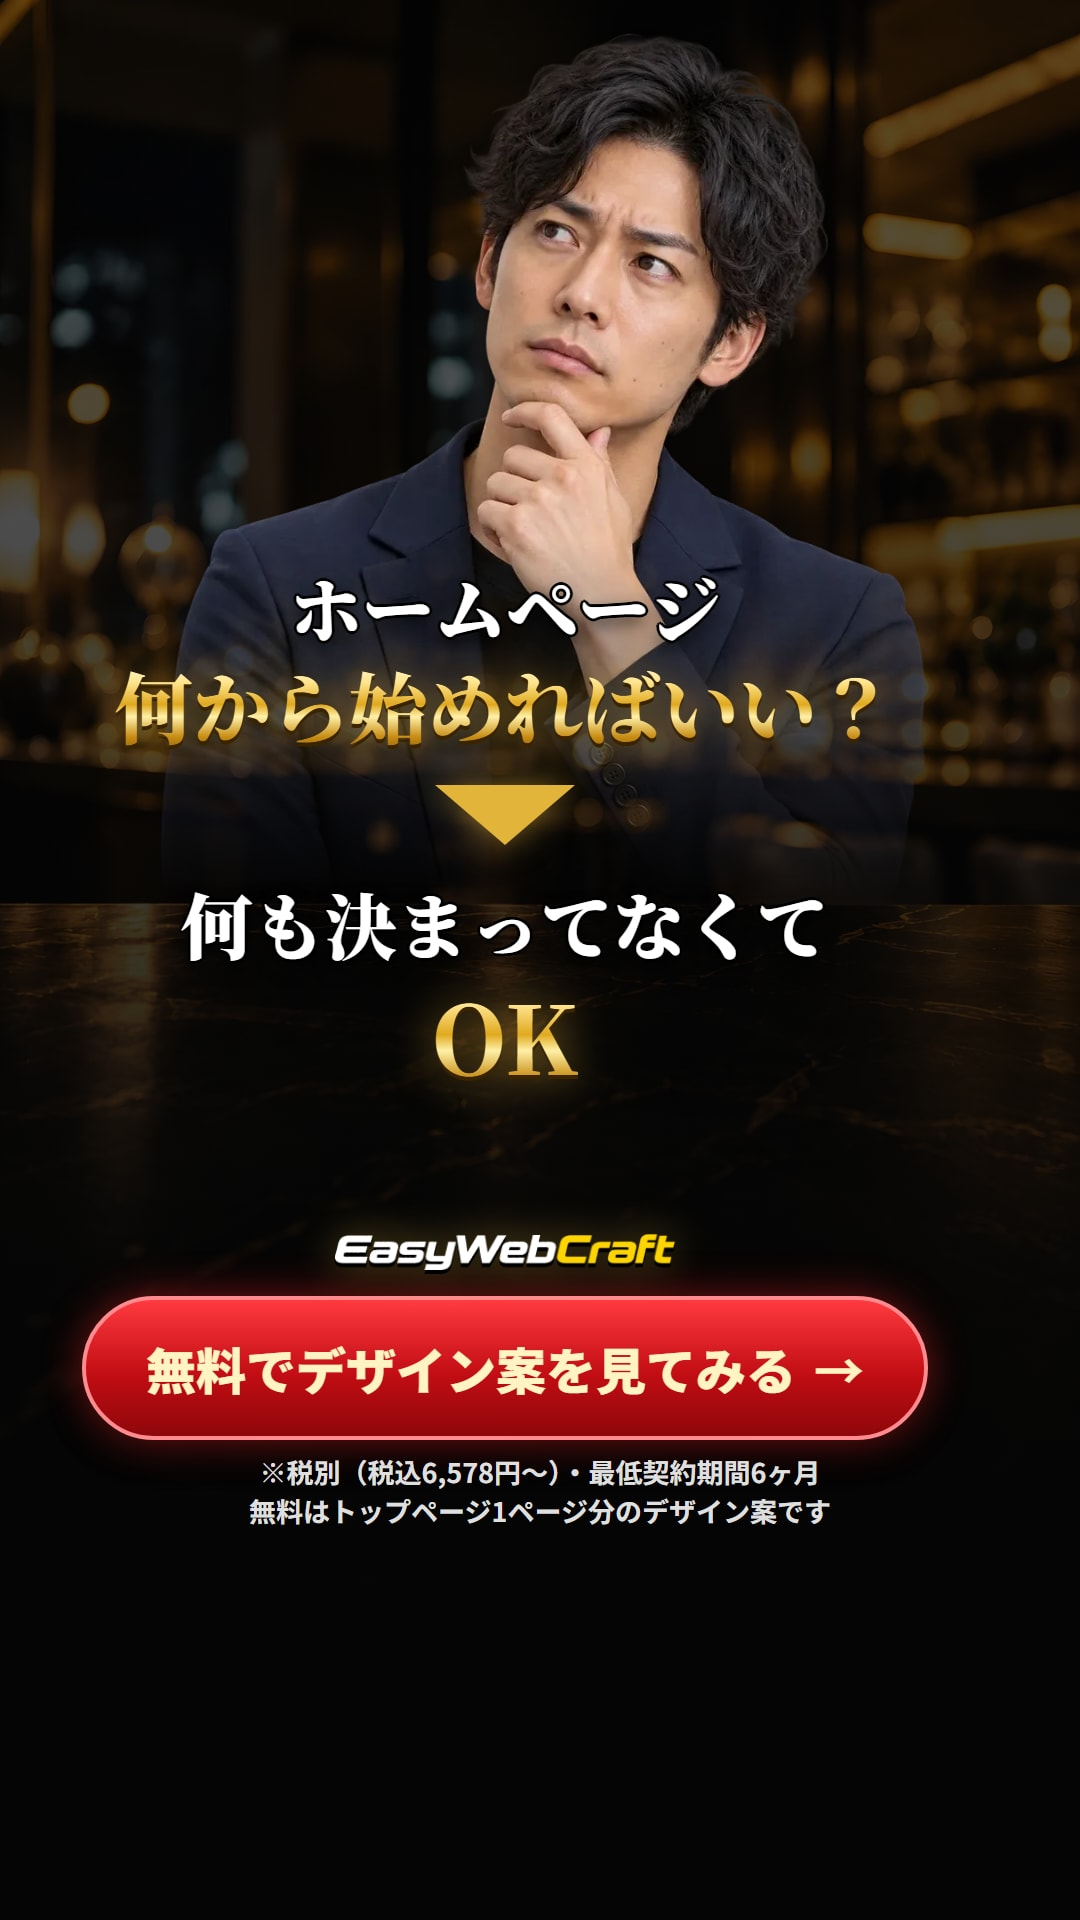
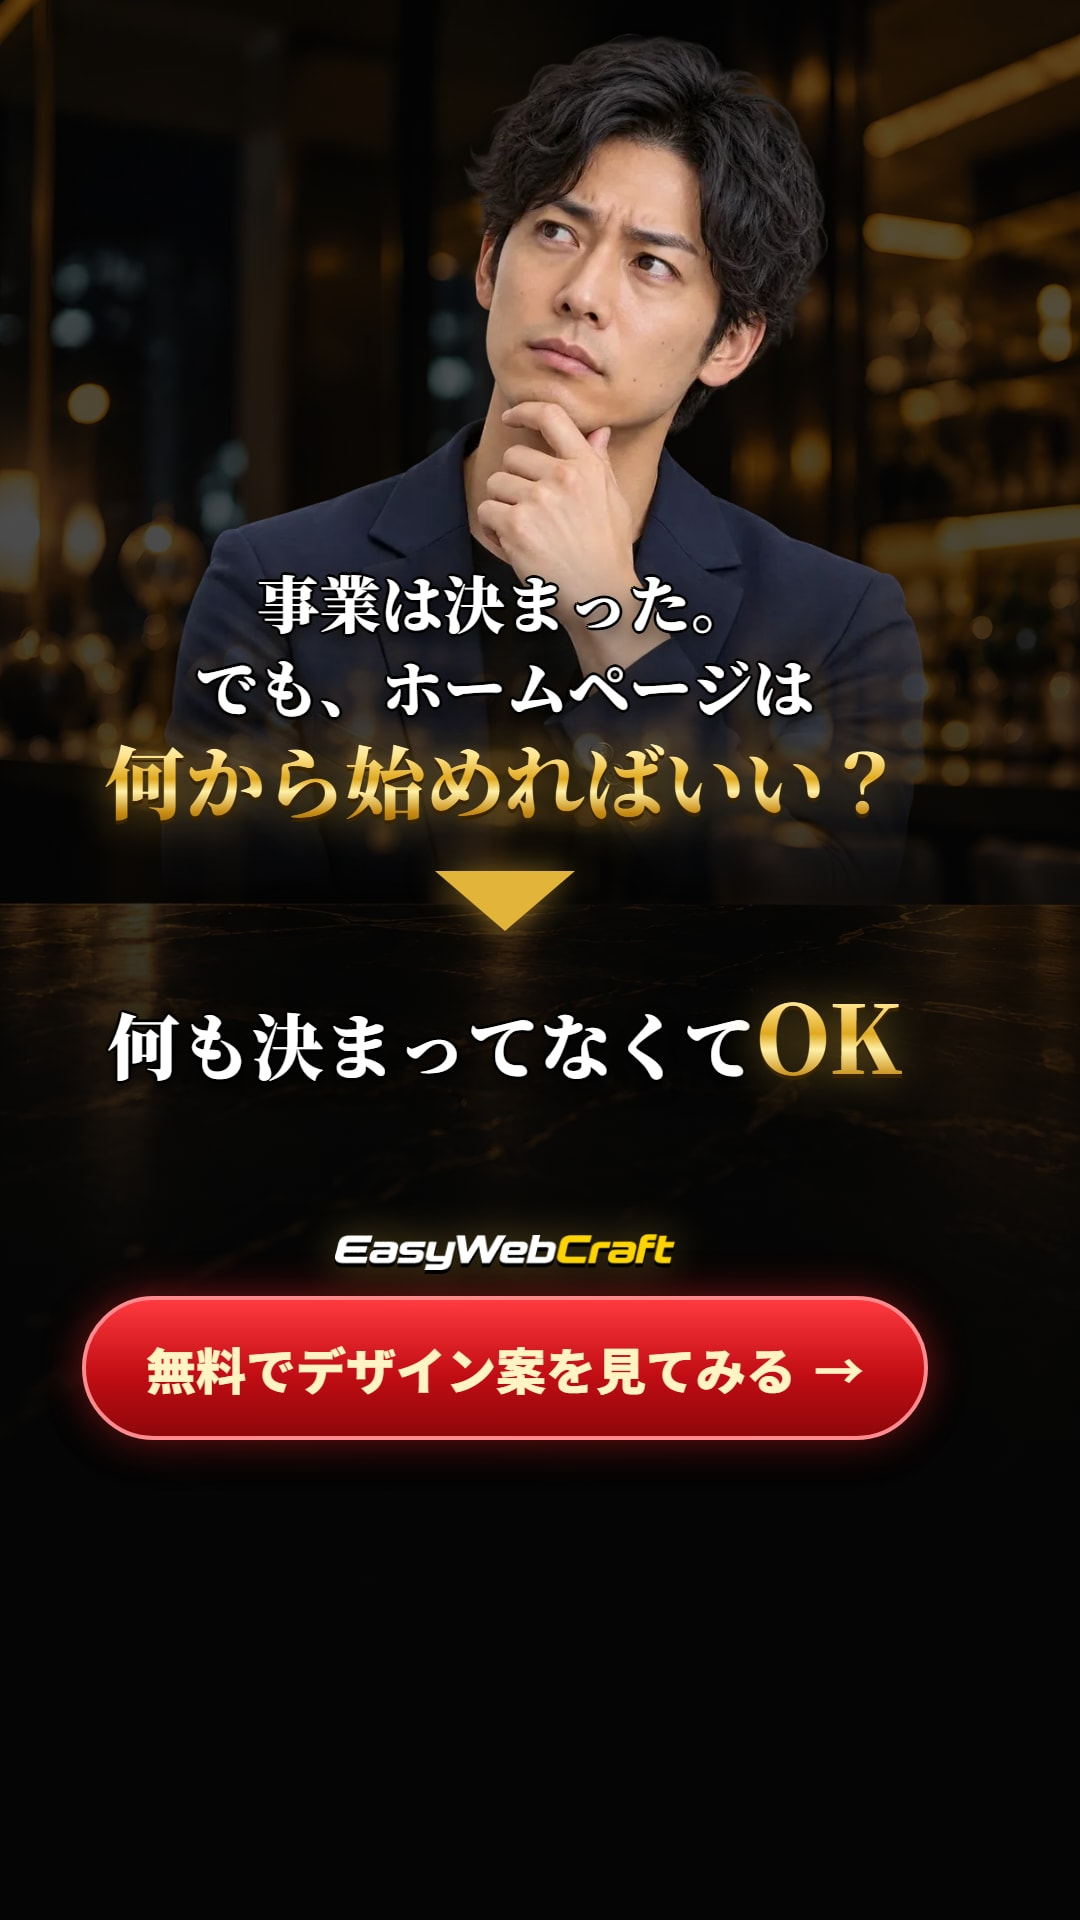
C2・C4・C5の文言を調整し、注記を必要な案だけに絞る
Claude-Session: https://claude.ai/code/session_01G65TiHfa1BUco43NvNDLJF

Changed region(s): [[0.0917, 0.2812, 0.8556, 0.5938], [0.2139, 0.75, 0.5194, 0.8125], [0.5194, 0.75, 0.7639, 0.8125]]

diff --git a/challenge/ads.html b/challenge/ads.html
@@ -130,6 +130,7 @@ body{width:1080px; font-family:"Noto Sans JP",sans-serif; color:#fff; background
 #c4 .blogo{margin-top:30px}
 .ad.busy::after{background:linear-gradient(180deg,rgba(5,5,5,0) 0%,rgba(5,5,5,0) 32%,rgba(5,5,5,.8) 46%,rgba(5,5,5,.95) 62%,#050505 100%) !important}
 #c5 .in{top:760px}
+#c4 .blogo{margin-top:0}
 </style>
 </head>
 <body>
@@ -146,25 +147,26 @@ body{width:1080px; font-family:"Noto Sans JP",sans-serif; color:#fff; background
     <img class="logo blogo" src="img/logo-fv.webp" alt="EasyWebCraft">
     <p class="cta">無料でデザイン案を見てみる</p>
   </div>
-  <p class="fine">※税別（税込6,578円〜）・最低契約期間6ヶ月</p>
+  <p class="fine">※税別・最低契約期間6ヶ月</p>
 </section>
 
 <!-- C2 安すぎて不安 → 契約前にデザイン案0円 -->
 <section class="ad" id="c2">
   <div class="in">
-    <div class="g40"></div>
-    <p class="q" style="font-size:76px">こんなに安くて<br><b>ちゃんとしたHP</b><br>できるの？</p>
-    <div class="g40"></div>
+    <div class="g60"></div>
+    <p class="serif outline" style="font-size:84px; line-height:1.35">安いHPって、<br><span class="red">ちょっと不安。</span></p>
+    <div class="g60"></div>
     <div class="arrow"></div>
     <div class="g40"></div>
-    <p class="serif gold" style="font-size:80px; line-height:1.3">契約前に<br>実物を見せます</p>
-    <div class="g40"></div>
-    <div class="offer"><p class="h">HPデザイン案</p><p class="p"><b class="gold">0</b>円</p></div>
+    <p class="serif outline" style="font-size:60px">だから、</p>
+    <p class="serif gold" style="font-size:84px; line-height:1.3">契約前に<br>デザインを作ります</p>
+    <div class="g30"></div>
+    <p class="serif outline" style="font-size:70px"><span class="n gold" style="font-family:var(--num); font-size:220px; line-height:1">0</span>円</p>
     <div class="sp"></div>
     <img class="logo blogo" src="img/logo-fv.webp" alt="EasyWebCraft">
     <p class="cta">無料でデザイン案を見てみる</p>
   </div>
-  <p class="fine">※無料はトップページ1ページ分のデザイン案です<br>税別（税込6,578円〜）・最低契約期間6ヶ月</p>
+  <p class="fine">※トップページ1ページ分のデザイン案です</p>
 </section>
 
 <!-- C3 検索されても出てこない → 他社へ -->
@@ -183,40 +185,40 @@ body{width:1080px; font-family:"Noto Sans JP",sans-serif; color:#fff; background
     <img class="logo blogo" src="img/logo-fv.webp" alt="EasyWebCraft">
     <p class="cta">無料でデザイン案を見てみる</p>
   </div>
-  <p class="fine">※無料はトップページ1ページ分のデザイン案です<br>税別（税込6,578円〜）・最低契約期間6ヶ月</p>
+  <p class="fine">※トップページ1ページ分のデザイン案です</p>
 </section>
 
 <!-- C4 事業は決まった、HPは何から？ -->
 <section class="ad face" id="c4">
   <div class="photo think r"></div>
   <div class="in">
-    <p class="serif outline" style="font-size:72px; line-height:1.3">ホームページ</p>
-    <p class="serif gold" style="font-size:78px; line-height:1.3; white-space:nowrap">何から始めればいい？</p>
-    <div class="g30"></div>
+    <p class="serif outline" style="font-size:62px; line-height:1.35">事業は決まった。<br>でも、ホームページは</p>
+    <p class="serif gold" style="font-size:80px; line-height:1.3; white-space:nowrap">何から始めればいい？</p>
+    <div class="g40"></div>
     <div class="arrow"></div>
-    <div class="g30"></div>
-    <p class="serif outline" style="font-size:72px; line-height:1.35">何も決まってなくて<br><span class="gold" style="font-size:1.3em">OK</span></p>
+    <div class="g40"></div>
+    <p class="serif outline" style="font-size:72px; line-height:1.35">何も決まってなくて<span class="gold" style="font-size:1.3em">OK</span></p>
     <div class="sp"></div>
     <img class="logo blogo" src="img/logo-fv.webp" alt="EasyWebCraft">
     <p class="cta">無料でデザイン案を見てみる</p>
   </div>
-  <p class="fine">※税別（税込6,578円〜）・最低契約期間6ヶ月<br>無料はトップページ1ページ分のデザイン案です</p>
 </section>
 
 <!-- C5 本業が忙しくて手が回らない -->
 <section class="ad busy" id="c5">
   <div class="in">
     <div class="sp"></div>
-    <p class="serif outline" style="font-size:72px; line-height:1.35">忙しくて<br><span class="red" style="font-size:1.2em">HPまで手が回らない</span></p>
+    <p class="serif outline" style="font-size:64px">起業したばかり。</p>
+    <div class="g10"></div>
+    <p class="serif outline" style="font-size:64px; line-height:1.35">やることだらけで<br><span class="red" style="font-size:1.2em">HPまで手が回らない</span></p>
     <div class="g30"></div>
     <div class="arrow"></div>
     <div class="g30"></div>
-    <p class="serif gold" style="font-size:88px">まるごとお任せ</p>
+    <p class="serif gold" style="font-size:70px; white-space:nowrap">まとめてお任せください</p>
     <div class="g40"></div>
     <img class="logo blogo" src="img/logo-fv.webp" alt="EasyWebCraft">
     <p class="cta">無料でデザイン案を見てみる</p>
   </div>
-  <p class="fine">※税別（税込6,578円〜）・最低契約期間6ヶ月<br>無料はトップページ1ページ分のデザイン案です</p>
 </section>
 
 <!-- C6 高い・縛り・難しい → 3つの安心 -->
@@ -234,7 +236,7 @@ body{width:1080px; font-family:"Noto Sans JP",sans-serif; color:#fff; background
     <img class="logo blogo" src="img/logo-fv.webp" alt="EasyWebCraft">
     <p class="cta">無料でデザイン案を見てみる</p>
   </div>
-  <p class="fine">※税別（税込6,578円〜）・最低契約期間6ヶ月<br>無料はトップページ1ページ分のデザイン案です</p>
+  <p class="fine">※税別・最低契約期間6ヶ月／デザイン案はトップページ1ページ分</p>
 </section>
 
 </body>

diff --git a/challenge/index.html b/challenge/index.html
@@ -39,16 +39,16 @@ code{background:var(--bg); padding:0 5px; border-radius:4px; font-size:.88em; wo
     <h1>挑戦LP向け TikTok広告画像 6案</h1>
     <p class="lead"><b>起業直後のHP制作で抱える6種類の悩み</b>を1枚ずつテストする構成です。C1＝価格／C2＝品質の不安／C3＝依頼先選び／C4＝進め方が分からない／C5＝時間がない／C6＝契約・費用の不安</p>
     <p class="lead">LP（黒×金）と同じ背景・色・言葉で作った縦長画像です。広告から開いたときに、LPと同じ世界観がそのまま続くようにしています。</p>
-    <div class="spec"><span>1080×1920（9:16）</span><span>文字はTikTokのUIがかぶらない範囲</span><span>税別・最低契約期間・無料の範囲の注記入り</span><span>C1・C4・C5は顔出し版</span></div>
+    <div class="spec"><span>1080×1920（9:16）</span><span>文字はTikTokのUIがかぶらない範囲</span><span>注記は金額・0円を出す案だけに最小限</span><span>C1・C4・C5は顔出し版</span></div>
   </header>
 
   <div class="grid">
-    <div class="card"><img src="jpg/c1.jpg?v=4" alt="起業したばかりの経営者様へ ホームページ制作 月額5,980円〜"><div class="no"><b>C1</b>起業直後×価格</div><span class="tgt">起業したばかり</span><span class="star">顔出し</span><p class="cap">起業したばかりの経営者様へ。ホームページ制作が月額5,980円〜（税別）。</p></div>
-    <div class="card"><img src="jpg/c2.jpg?v=4" alt="こんなに安くて本当にちゃんとしたHPができるの？"><div class="no"><b>C2</b>安すぎて不安？</div><span class="tgt">価格に不安がある人</span><span class="star">主力候補</span><p class="cap">こんなに安くてちゃんとしたHPできるの？契約前に実物を見せます。HPデザイン案0円。</p></div>
-    <div class="card"><img src="jpg/c3.jpg?v=4" alt="起業した。でも、どこに頼めばいい？"><div class="no"><b>C3</b>どこに頼めばいい？</div><span class="tgt">依頼先で迷っている人</span><span class="star">新規</span><p class="cap">ホームページ、どこに頼めばいい？制作会社？フリーランス？自分で？デザインを見てから決めてください。</p></div>
-    <div class="card"><img src="jpg/c4.jpg?v=4" alt="事業は決まった。でも、ホームページは何から始めればいい？"><div class="no"><b>C4</b>何から始めれば？</div><span class="tgt">HPの知識がない人</span><span class="star">顔出し</span><p class="cap">ホームページ、何から始めればいい？何も決まってなくてOK。</p></div>
-    <div class="card"><img src="jpg/c5.jpg?v=4" alt="起業したばかり。やることだらけでHPまで手が回らない"><div class="no"><b>C5</b>手が回らない</div><span class="tgt">本業が忙しい人</span><span class="star">顔出し</span><p class="cap">忙しくてHPまで手が回らない。まるごとお任せください。</p></div>
-    <div class="card"><img src="jpg/c6.jpg?v=4" alt="起業したばかりだから、HPに大金はかけられない"><div class="no"><b>C6</b>安心3点セット</div><span class="tgt">比較検討中の人（リターゲティング向き）</span><p class="cap">HPに大金はかけられない。初期費用0円・デザイン案0円・月額5,980円〜（税別）。</p></div>
+    <div class="card"><img src="jpg/c1.jpg?v=5" alt="起業したばかりの経営者様へ ホームページ制作 月額5,980円〜"><div class="no"><b>C1</b>起業直後×価格</div><span class="tgt">起業したばかり</span><span class="star">顔出し</span><p class="cap">起業したばかりの経営者様へ。ホームページ制作が月額5,980円〜（税別）。</p></div>
+    <div class="card"><img src="jpg/c2.jpg?v=5" alt="こんなに安くて本当にちゃんとしたHPができるの？"><div class="no"><b>C2</b>安すぎて不安？</div><span class="tgt">価格に不安がある人</span><span class="star">主力候補</span><p class="cap">安いHPって、ちょっと不安。だから、契約前にデザインを作ります。0円。</p></div>
+    <div class="card"><img src="jpg/c3.jpg?v=5" alt="起業した。でも、どこに頼めばいい？"><div class="no"><b>C3</b>どこに頼めばいい？</div><span class="tgt">依頼先で迷っている人</span><span class="star">新規</span><p class="cap">ホームページ、どこに頼めばいい？制作会社？フリーランス？自分で？デザインを見てから決めてください。</p></div>
+    <div class="card"><img src="jpg/c4.jpg?v=5" alt="事業は決まった。でも、ホームページは何から始めればいい？"><div class="no"><b>C4</b>何から始めれば？</div><span class="tgt">HPの知識がない人</span><span class="star">顔出し</span><p class="cap">事業は決まった。でも、ホームページは何から始めればいい？何も決まってなくてOK。</p></div>
+    <div class="card"><img src="jpg/c5.jpg?v=5" alt="起業したばかり。やることだらけでHPまで手が回らない"><div class="no"><b>C5</b>手が回らない</div><span class="tgt">本業が忙しい人</span><span class="star">顔出し</span><p class="cap">起業したばかり。やることだらけでHPまで手が回らない。まとめてお任せください。</p></div>
+    <div class="card"><img src="jpg/c6.jpg?v=5" alt="起業したばかりだから、HPに大金はかけられない"><div class="no"><b>C6</b>安心3点セット</div><span class="tgt">比較検討中の人（リターゲティング向き）</span><p class="cap">HPに大金はかけられない。初期費用0円・デザイン案0円・月額5,980円〜（税別）。</p></div>
   </div>
 
   <div class="box">
